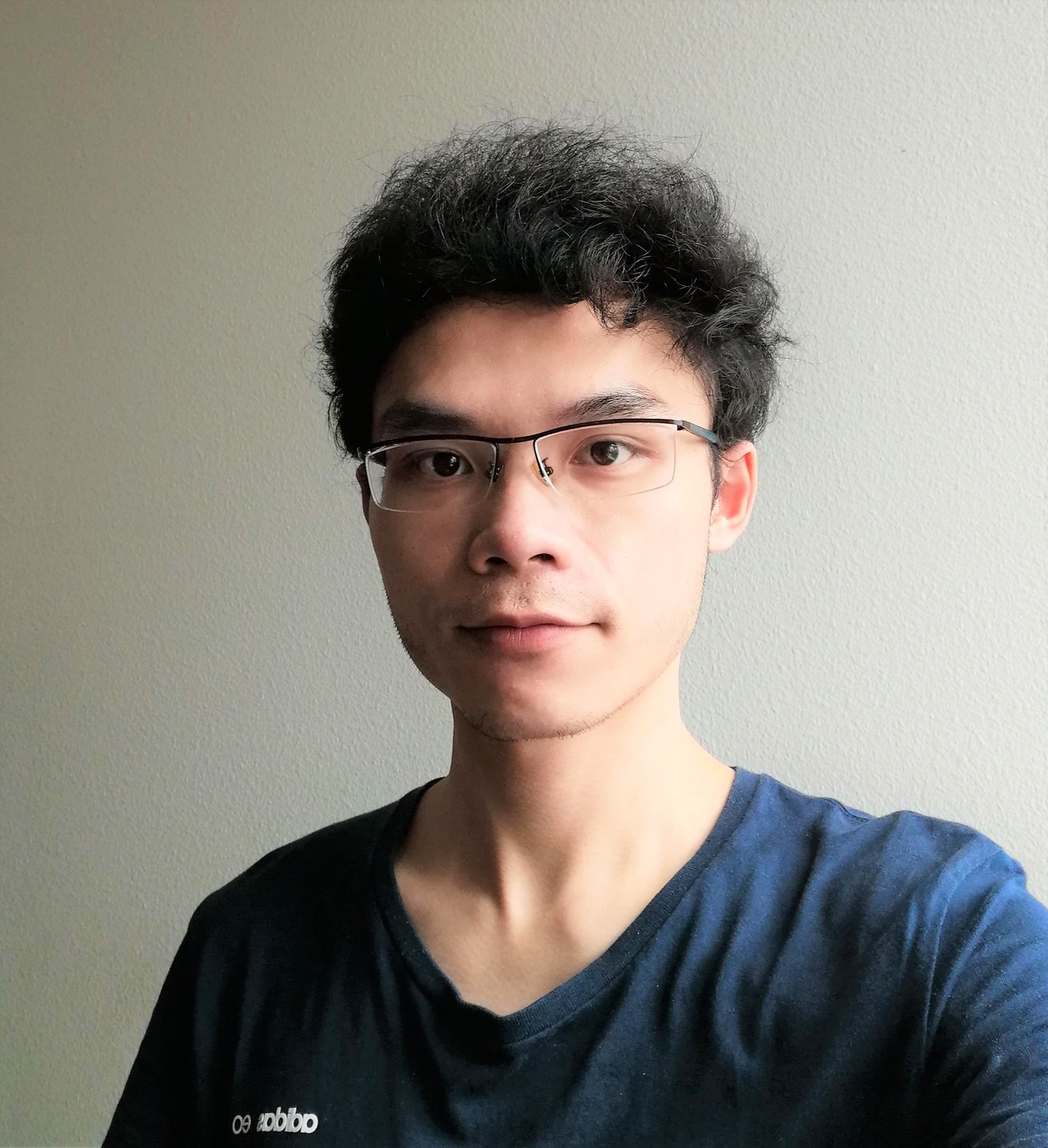
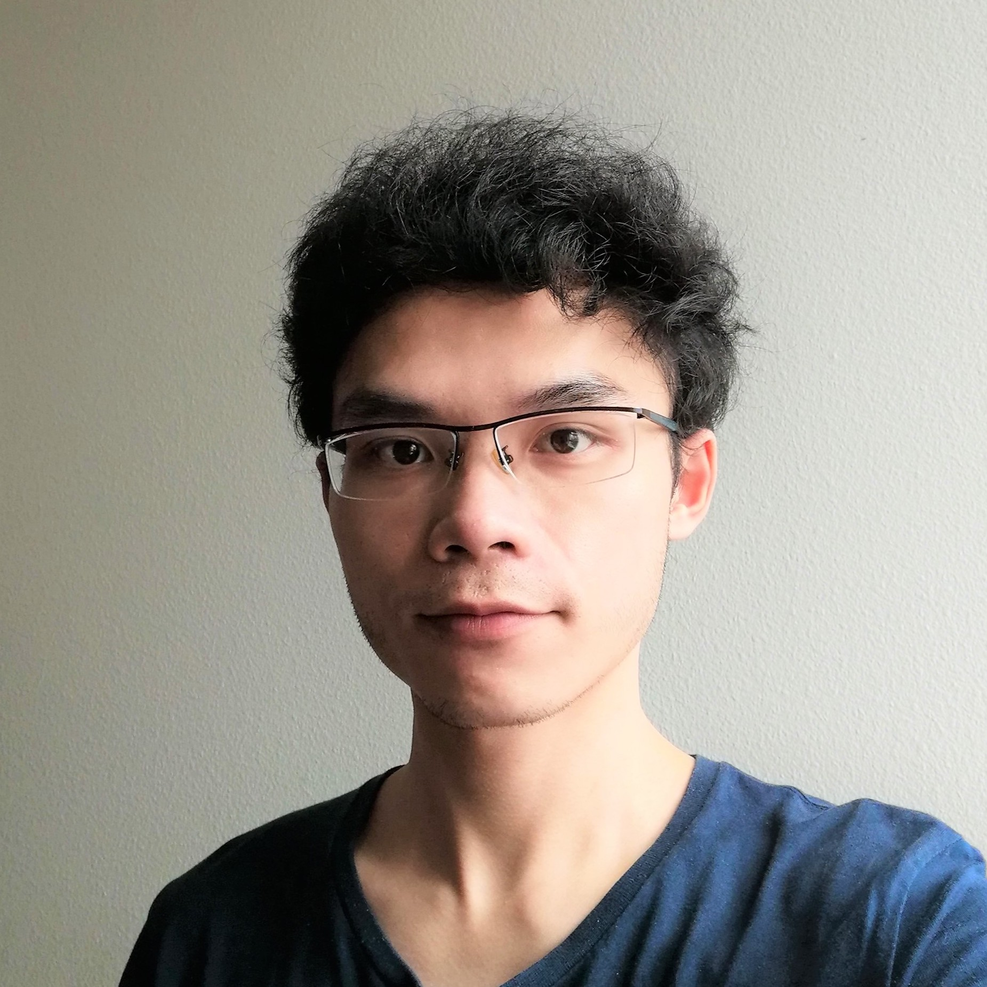
page design

diff --git a/app/page.tsx b/app/page.tsx
@@ -2,6 +2,7 @@
 import { motion } from 'motion/react'
 import { Magnetic } from '@/components/ui/magnetic'
 import Link from 'next/link'
+import Image from 'next/image'
 import { AnimatedBackground } from '@/components/ui/animated-background'
 import {
   BLOG_POSTS,
@@ -74,7 +75,26 @@ export default function Personal() {
         variants={VARIANTS_SECTION}
         transition={TRANSITION_SECTION}
       >
-        <div className="flex-1 space-y-4">
+        {/* Profile Picture - Float Right on Desktop, Centered on Mobile */}
+        <motion.div
+          className="float-none md:float-right mb-6 md:mb-0 md:ml-8 flex justify-center md:justify-end"
+          initial={{ opacity: 0, scale: 0.9 }}
+          animate={{ opacity: 1, scale: 1 }}
+          transition={{ duration: 0.4 }}
+        >
+          <div className="relative w-48 h-48 md:w-52 md:h-52">
+            <Image
+              src="/profile.jpg"
+              alt="Xuhui Zhou"
+              fill
+              className="rounded-2xl object-cover ring-2 ring-zinc-200 dark:ring-zinc-800"
+              priority
+            />
+          </div>
+        </motion.div>
+
+        {/* Bio Content with Text Wrapping */}
+        <div className="space-y-4">
           <p className="text-zinc-600 dark:text-zinc-400">
             I am a PhD student at the{' '}
             <a
@@ -112,12 +132,21 @@ export default function Personal() {
                 >
                   Sotopia
                 </a>
+                ,{' '}
+                <a
+                  href="https://arxiv.org/abs/2509.00559"
+                  target="_blank"
+                  rel="noopener noreferrer"
+                  className="font-medium text-zinc-900 underline decoration-zinc-300 underline-offset-2 dark:text-zinc-50 dark:decoration-zinc-700"
+                >
+                  Social World Models
+                </a>
               </span>
             </li>
             <li className="flex gap-2">
               <span>🧱</span>
               <span>
-                How do we create better (socially) grounded AI systems? e.g.,{' '}
+                How do we create AI agents that better help/collaborate with humans in the work? e.g.,{' '}
                 <a
                   href="https://webarena.dev/"
                   target="_blank"
@@ -125,6 +154,15 @@ export default function Personal() {
                   className="font-medium text-zinc-900 underline decoration-zinc-300 underline-offset-2 dark:text-zinc-50 dark:decoration-zinc-700"
                 >
                   WebArena
+                </a>
+                ,{' '}
+                <a
+                  href="https://arxiv.org/abs/2510.21903"
+                  target="_blank"
+                  rel="noopener noreferrer"
+                  className="font-medium text-zinc-900 underline decoration-zinc-300 underline-offset-2 dark:text-zinc-50 dark:decoration-zinc-700"
+                >
+                  TOM-SWE
                 </a>
               </span>
             </li>
@@ -140,10 +178,22 @@ export default function Personal() {
                 >
                   HAICOSYSTEM
                 </a>
+                ,{' '}
+                <a
+                  href="https://arxiv.org/abs/2507.06134"
+                  target="_blank"
+                  rel="noopener noreferrer"
+                  className="font-medium text-zinc-900 underline decoration-zinc-300 underline-offset-2 dark:text-zinc-50 dark:decoration-zinc-700"
+                >
+                  OpenAgentSafety
+                </a>
               </span>
             </li>
           </ul>
         </div>
+
+        {/* Clear float for next section */}
+        <div className="clear-both"></div>
       </motion.section>
 
       <motion.section

diff --git a/app/header.tsx b/app/header.tsx
@@ -10,7 +10,7 @@ export function Header() {
     <header className="mb-8">
       <div className="flex items-center justify-between">
         <div>
-          <Link href="/" className="font-medium text-black dark:text-white">
+          <Link href="/" className="text-2xl md:text-3xl font-bold text-black dark:text-white">
             Xuhui Zhou
           </Link>
           <TextEffect
@@ -20,7 +20,7 @@ export function Header() {
             className="text-zinc-600 dark:text-zinc-500"
             delay={0.5}
           >
-            NLP Researcher
+            Making Socially Intelligent AI
           </TextEffect>
         </div>
       </div>

diff --git a/app/footer.tsx b/app/footer.tsx
@@ -72,8 +72,9 @@ export function Footer() {
       <div className="flex items-center justify-between">
         <a href="https://github.com/ibelick/nim" target="_blank">
           <TextLoop className="text-xs text-zinc-500">
-            <span>© 2024 Nim.</span>
-            <span>Built with Motion-Primitives.</span>
+            <span>© 2025 Xuhui Zhou.</span>
+            <span>Adopted from Nim theme.</span>
+            <span>Last updated: Nov 09, 2025.</span>
           </TextLoop>
         </a>
         <div className="text-xs text-zinc-400">
